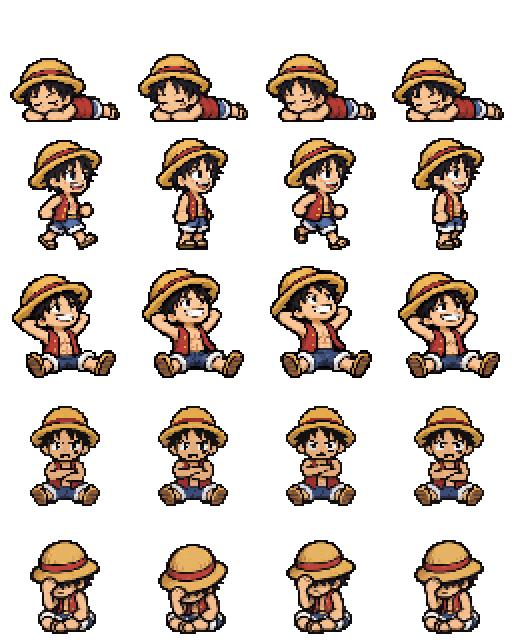
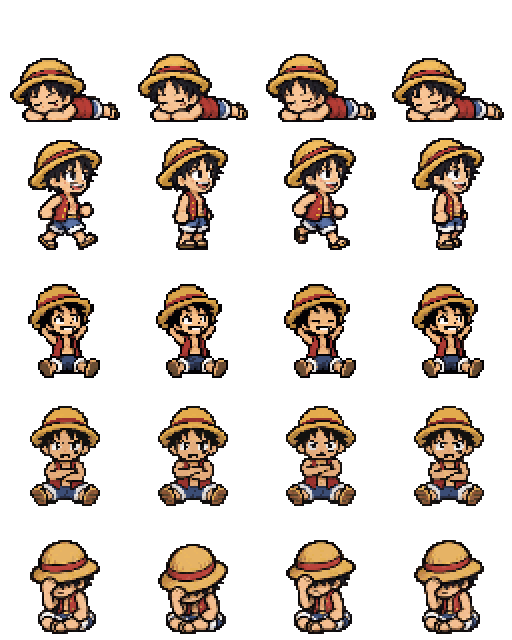
fix(one-piece): redraw Luffy and Ace done poses to match their other states
Luffy's done pose looked larger than his other states, and Ace's had oversized arms. Replace the done row of each gesture sheet with the picked frames, cut to binary transparency like every other sheet, and regenerate the installed done assets and lookup sheets with tools/build-artwork.py.

diff --git a/docs/ARTWORK-NATIVE.md b/docs/ARTWORK-NATIVE.md
@@ -247,3 +247,18 @@ The first frames of the existing walking GIFs differ from their PNGs by 2.44 lev
 `test_gestures_keep_the_approved_pixels` decodes every sheet whole and compares its cells with the exported files.
 It checks frame delays, disposal, and transparency for all four rows, every color of the idle row, and each new PNG exactly.
 The baseline and Chopper scale tests now cover all five states.
+
+## Luffy and Ace done poses, 2026-11-26
+
+The done rows of `luffy-gestures-v1.png` and `ace-gestures-v1.png` were redrawn on 2026-11-26 with generated art.
+Luffy's earlier done pose looked larger than his other states, and Ace's earlier done pose had oversized arms.
+The captain picked the replacements on review pages kept outside this repository.
+Luffy's widest done frame shrank from 52 × 56 to 36 × 47 opaque pixels, and his face now has a compact grin.
+Ace's widest done frame shrank from 45 × 53 to 36 × 47 opaque pixels, with smaller arms.
+Both now sit close to their blocked poses, which measure 35 pixels wide.
+The generated frames had soft edges, so their transparency was cut at 50%, like every other gesture sheet.
+That matches the animated GIFs the captain picked, pixel for pixel.
+Only the done row of each sheet changed, so these two sheets no longer match the 2026-11-19 review page in that row.
+The other rows, frame size, frame count, and 850-millisecond timing are unchanged.
+The exporter regenerated `crew-luffy-done`, `crew-ace-done`, and the two lookup sheets from the edited source sheets.
+Native Herdr rendering of the new poses has not been checked.
